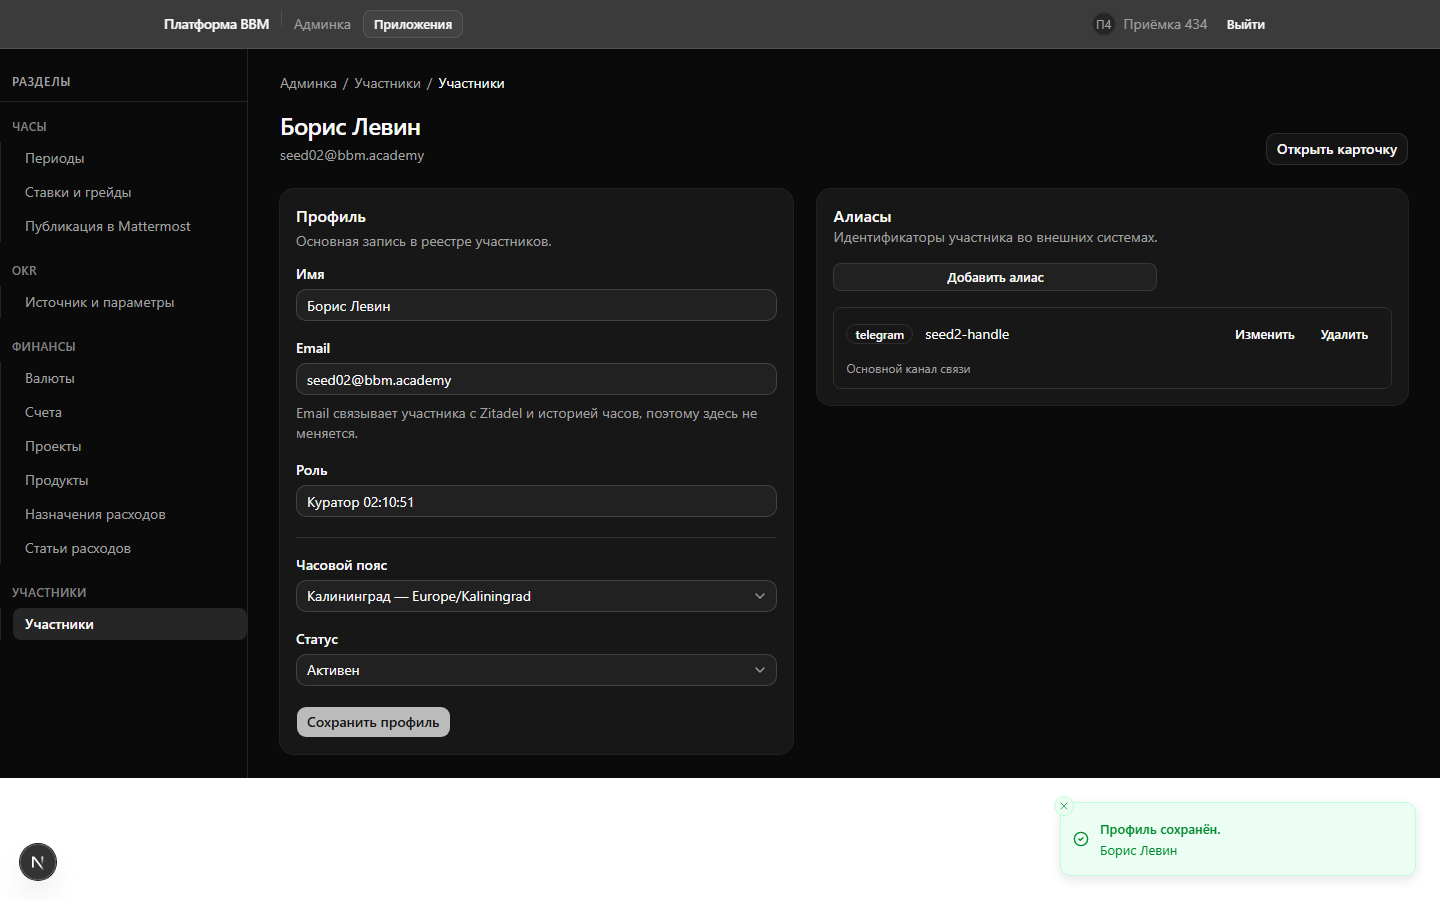
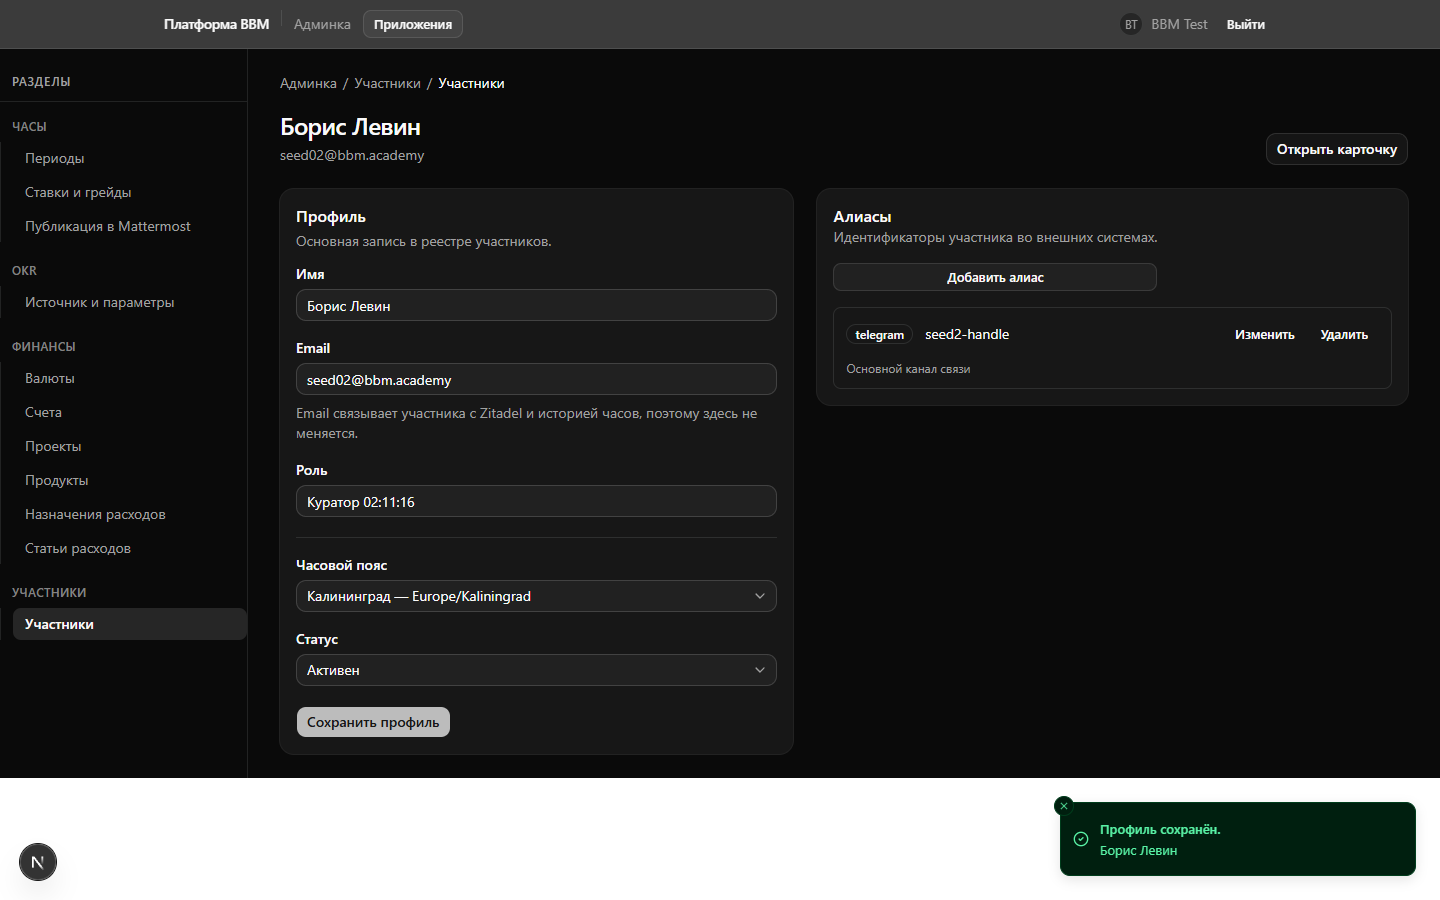
docs(evidence): re-take the four dark toast frames on the fixed Toaster
The PR's own dark evidence was the report of blocker 2: a light green plaque as
the only light element on a fully dark screen. With the Toaster reading the
workspace's `.dark` class (`bf7b6a7`), the same journey on the same stand
(`PORT=3001`, branch DB `platform_434`, record `seed02@bbm.academy`) produces a
dark toast in all four frames that carry one — `06-*-dark` and `10-*-dark`.

Step 10's mutation failure is injected at the transport (the `PATCH` fulfilled
with `500` by the driver), so AC2's error path is photographed without harming
a record. The light frames are untouched: they were already correct, by
accident rather than by design.

Refs #434

Claude-Session: https://claude.ai/code/session_01R2pGj1xFFzYq7tyuDZKWYt

Changed region(s): [[0.7188, 0.8711, 1.0, 0.9956], [0.7812, 0.0, 0.8438, 0.0311]]

diff --git a/docs/evidence/434/README.md b/docs/evidence/434/README.md
@@ -20,6 +20,13 @@ exists today).
 | 09   | the create screen                                                                    |
 | 10   | **AC2** — a Refine MUTATION FAILURE rendering a toast through `notificationProvider` |
 
+The four DARK frames that carry a toast — `06-*-dark` and `10-*-dark` — were
+re-taken on 2026-09-03, after review blocker 2: until then the Toaster read a
+`next-themes` provider this repo does not run, so the toast rendered light on a
+dark screen. Same stand, same record (`seed02@bbm.academy`), same two
+breakpoints; step 10's failure is injected at the transport (the `PATCH` is
+fulfilled with `500`), so no record is harmed by photographing it.
+
 The pointer cursor (AC3) is asserted in the journey rather than photographed:
 every run reports `cursor: {"enabled":"pointer","disabled":"default"}` on a plain
 `<button>`, with no `cursor-pointer` class anywhere in `src`.
